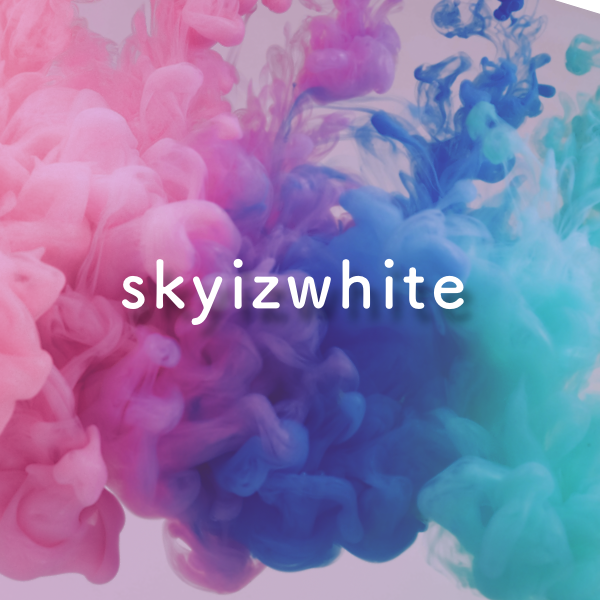
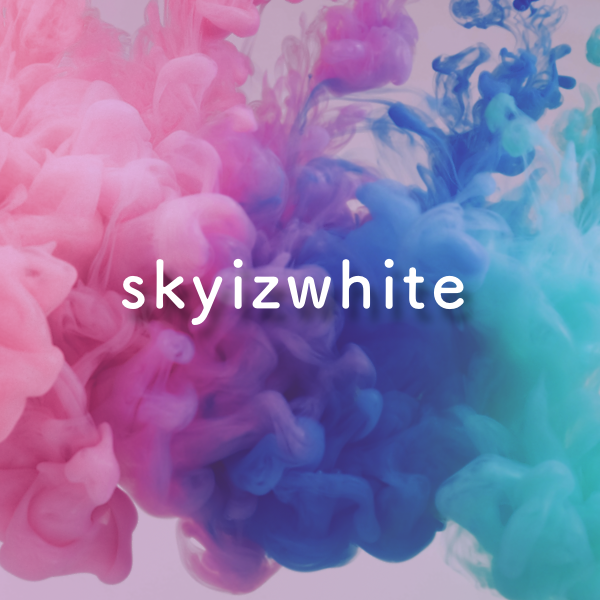
Add about page (#8)
* Remove bg-sp

* Improve layout

* Add ContentBox component

* Add about page

* Fix

diff --git a/pages/about.tsx b/pages/about.tsx
@@ -1,0 +1,103 @@
+import { AcademicCapIcon, BadgeCheckIcon, BriefcaseIcon, IdentificationIcon, ThumbUpIcon } from '@heroicons/react/outline';
+import { NextSeo } from 'next-seo';
+import { Breadcrumbs, Link } from 'react-daisyui';
+
+import Container from 'components/Container';
+import ContentBox from 'components/ContentBox';
+import NextImage from 'components/NextImage';
+import { AboutSeoProps } from 'lib/seo';
+import me from 'public/images/me.webp';
+
+import type { NextPage } from 'next';
+
+const About: NextPage = () => (
+  <Container className="p-4">
+    <NextSeo {...AboutSeoProps} />
+    <Breadcrumbs className="mb-2 sm:mb-4">
+      <Breadcrumbs.Item href="/">top</Breadcrumbs.Item>
+      <Breadcrumbs.Item href="/about">about</Breadcrumbs.Item>
+    </Breadcrumbs>
+    <h2 className="my-2 sm:my-4 text-3xl sm:text-5xl font-bold">About</h2>
+    <div className="p-4 sm:p-8 flex items-center justify-center">
+      <NextImage src={me} alt="paku" className="w-1/3 rounded-3xl overflow-hidden shadow" />
+    </div>
+    <div className="grid grid-cols-1 sm:grid-cols-2 gap-4">
+      <ContentBox>
+        <div className="flex items-center">
+          <IdentificationIcon className="w-5 h-5 sm:w-8 sm:h-8 mr-2" />
+          <h2 className="text-xl sm:text-3xl font-bold">Profile</h2>
+        </div>
+        <ol className="text-sm ml-7 mt-2 sm:mt-4 list-disc">
+          <li>he/him</li>
+          <li>茨城出身・在住</li>
+          <li>ラーメンとAppleが好きです</li>
+          <li>
+            Twitter:{' '}
+            <Link href="https://twitter.com/skyizwhite" color="primary">
+              @skyizwhite
+            </Link>
+          </li>
+          <li>
+            GitHub:{' '}
+            <Link href="https://github.com/skyizwhite" color="primary">
+              @skyizwhite
+            </Link>
+          </li>
+        </ol>
+      </ContentBox>
+      <ContentBox>
+        <div className="flex items-center">
+          <AcademicCapIcon className="w-5 h-5 sm:w-8 sm:h-8 mr-2" />
+          <h2 className="text-xl sm:text-3xl font-bold">Education</h2>
+        </div>
+        <ol className="text-sm ml-7 mt-2 sm:mt-4 list-disc">
+          <li>
+            <span className="block">2015/04 - 2020/03</span>
+            <span className="block">小山工業高等専門学校 電気電子創造工学科</span>
+          </li>
+          <li>
+            <span className="block">2021/04 - now</span>
+            <span className="block">筑波大学 情報学群 情報メディア創成学類</span>
+          </li>
+        </ol>
+      </ContentBox>
+      <ContentBox>
+        <div className="flex items-center">
+          <BriefcaseIcon className="w-5 h-5 sm:w-8 sm:h-8 mr-2" />
+          <h2 className="text-xl sm:text-3xl font-bold">Career</h2>
+        </div>
+        <ol className="text-sm ml-7 mt-2 sm:mt-4 list-disc">
+          <li>
+            <span className="block">2021/05 - now</span>
+            <span className="block">Enigol Inc. - フロントエンドエンジニア（アルバイト）</span>
+          </li>
+        </ol>
+      </ContentBox>
+      <ContentBox>
+        <div className="flex items-center">
+          <BadgeCheckIcon className="w-5 h-5 sm:w-8 sm:h-8 mr-2" />
+          <h2 className="text-xl sm:text-3xl font-bold">Qualification</h2>
+        </div>
+        <ol className="text-sm ml-7 mt-2 sm:mt-4 list-disc">
+          <li>基本情報技術者（FE）</li>
+        </ol>
+      </ContentBox>
+      <ContentBox>
+        <div className="flex items-center">
+          <ThumbUpIcon className="w-5 h-5 sm:w-8 sm:h-8 mr-2" />
+          <h2 className="text-xl sm:text-3xl font-bold">Skills</h2>
+        </div>
+        <ol className="text-sm ml-7 mt-2 sm:mt-4 list-disc">
+          <li>HTML/CSS (Sass, Bootstrap, Tailwind CSS, daisyUI)</li>
+          <li>JavaScript, TypeScript (React, Vue, Next.js, Nuxt.js)</li>
+          <li>Ruby (Sinatra, Rails)</li>
+          <li>Python (Flask, Keras, Kivy)</li>
+          <li>Common Lisp (learning)</li>
+          <li>Web design (learning)</li>
+        </ol>
+      </ContentBox>
+    </div>
+  </Container>
+);
+
+export default About;

diff --git a/components/Layout.tsx b/components/Layout.tsx
@@ -13,32 +13,29 @@ export type LayoutProps = {
 
 const contents = [
   { href: '/about', title: 'about' },
-  { href: '/skills', title: 'skills' },
-  { href: '/works', title: 'works' },
-  { href: '/blog', title: 'blog' },
-  { href: '/contact', title: 'contact' },
+  // { href: '/blog', title: 'blog' },
 ];
 
 const Layout: React.FC<LayoutProps> = ({ children }) => {
   const router = useRouter();
 
   return (
-    <div className="h-screen flex flex-col bg-[url('/images/bg-pc.webp')] bg-cover bg-center">
-      <Navbar className="fixed bg-base-100 bg-opacity-70 border-b border-border-base-300">
+    <div className="h-full flex flex-col">
+      <Navbar className="fixed bg-base-100 bg-opacity-70 border-b border-border-base-300 z-50">
         <Container>
-          <Navbar.Start>
+          <Navbar.Start className="ml-2">
             <NextLink href="/">
               <span className="text-lg font-extrabold">skyizwhite</span>
             </NextLink>
           </Navbar.Start>
-          <Navbar.End className="px-2 mx-2 hidden sm:flex">
+          <Navbar.End className="hidden sm:flex px-2 mx-2">
             {contents.map((content) => (
               <NextLink key={content.href} href={content.href} className="mx-4 hover:text-primary">
                 {content.title}
               </NextLink>
             ))}
           </Navbar.End>
-          <Navbar.End className="flex sm:hidden ">
+          <Navbar.End className="flex sm:hidden">
             <Dropdown horizontal="center">
               <Dropdown.Toggle color="ghost">
                 <MenuIcon className="w-5 h-5" />

diff --git a/lib/seo.ts b/lib/seo.ts
@@ -7,7 +7,7 @@ export const defaultSeoProps: DefaultSeoProps = {
     type: 'website',
     locale: 'ja_JP',
     url: pathToUrl('/'),
-    site_name: 'skyizwhite.dev',
+    site_name: 'skyizwhite',
     images: [
       {
         url: pathToUrl('/images/ogp.webp'),
@@ -36,14 +36,20 @@ export const defaultSeoProps: DefaultSeoProps = {
   ],
 };
 
-export const HomeSeoProps: NextSeoProps = (() => {
-  const title = 'skyizwhite.dev';
-  const description =
-    'pakuのポートフォリオサイトです。自己紹介やこれまでの経歴、ブログ等のオリジナルコンテンツを発信しています。';
+export const TopSeoProps: NextSeoProps = (() => {
+  const title = 'skyizwhite';
+  const description = 'pakuのポートフォリオサイトです。自己紹介や成果物、ブログ等のオリジナルコンテンツを発信しています。';
 
   return {
     title,
     description,
     openGraph: { title, description, url: pathToUrl('/') },
   };
+})();
+
+export const AboutSeoProps: NextSeoProps = (() => {
+  const title = 'About - skyizwhite';
+  const description = 'pakuの自己紹介ページです。経歴や資格、スキルなどを公開しています。';
+
+  return { title, description, openGraph: { title, description, url: pathToUrl('/about') } };
 })();

diff --git a/pages/404.tsx b/pages/404.tsx
@@ -3,6 +3,7 @@ import { NextSeo } from 'next-seo';
 import { Alert, Button } from 'react-daisyui';
 
 import Container from 'components/Container';
+import ContentBox from 'components/ContentBox';
 import NextLink from 'components/NextLink';
 
 import type { NextPage } from 'next';
@@ -10,7 +11,7 @@ import type { NextPage } from 'next';
 const NotFound: NextPage = () => (
   <Container className="h-full flex flex-col items-center justify-center">
     <NextSeo title="404 Page Not Found" />
-    <div className="bg-base-100 bg-opacity-80 p-3 sm:p-5 rounded-xl flex flex-col items-center justify-center">
+    <ContentBox className="flex flex-col items-center justify-center">
       <Alert icon={<ExclamationIcon className="h-6 md:h-8 w-6 md:w-8" />} status="error" className="w-min shadow-lg">
         <span className="text-lg md:text-2xl font-bold whitespace-nowrap">404 Page Not Found</span>
       </Alert>
@@ -23,7 +24,7 @@ const NotFound: NextPage = () => (
           トップへ戻る
         </Button>
       </NextLink>
-    </div>
+    </ContentBox>
   </Container>
 );
 

diff --git a/pages/index.tsx b/pages/index.tsx
@@ -2,13 +2,13 @@ import { motion } from 'framer-motion';
 import { NextSeo } from 'next-seo';
 
 import Container from 'components/Container';
-import { HomeSeoProps } from 'lib/seo';
+import { TopSeoProps } from 'lib/seo';
 
 import type { NextPage } from 'next';
 
-const Home: NextPage = () => (
+const Top: NextPage = () => (
   <Container className="h-full flex flex-col items-center justify-center">
-    <NextSeo {...HomeSeoProps} />
+    <NextSeo {...TopSeoProps} />
     <h1 className="text-5xl md:text-8xl text-primary-100 font-extrabold tracking-wide">
       <motion.span
         initial={{ y: 50, opacity: 0 }}
@@ -30,4 +30,4 @@ const Home: NextPage = () => (
   </Container>
 );
 
-export default Home;
+export default Top;

diff --git a/components/NextImage.tsx b/components/NextImage.tsx
@@ -1,9 +1,10 @@
+import classNames from 'classnames';
 import Image from 'next/image';
 
 import type { ImageProps } from 'next/image';
 
-const NextImage: React.FC<ImageProps> = (props) => (
-  <div className="text-[0]">
+const NextImage: React.FC<ImageProps> = ({ className, ...props }) => (
+  <div className={classNames('text-[0]', className)}>
     {/* eslint-disable-next-line jsx-a11y/alt-text */}
     <Image {...props} loading="lazy" />
   </div>

diff --git a/styles/globals.css b/styles/globals.css
@@ -8,6 +8,11 @@ body {
   margin: 0;
   font-family: -apple-system, BlinkMacSystemFont, Segoe UI, Roboto, Oxygen,
     Ubuntu, Cantarell, Fira Sans, Droid Sans, Helvetica Neue, sans-serif;
+  background-image: url('/images/bg.webp');
+  background-repeat: no-repeat;
+  background-size: cover;
+  background-position: center;
+  background-attachment: fixed;
 }
 
 #__next {

diff --git a/components/ContentBox.tsx b/components/ContentBox.tsx
@@ -1,0 +1,11 @@
+import classNames from 'classnames';
+
+import type { HTMLAttributes } from 'react';
+
+const ContentBox: React.FC<HTMLAttributes<HTMLDivElement>> = ({ className, children, ...props }) => (
+  <div className={classNames('bg-base-100 bg-opacity-80 p-3 sm:p-5 rounded-xl', className)} {...props}>
+    {children}
+  </div>
+);
+
+export default ContentBox;
